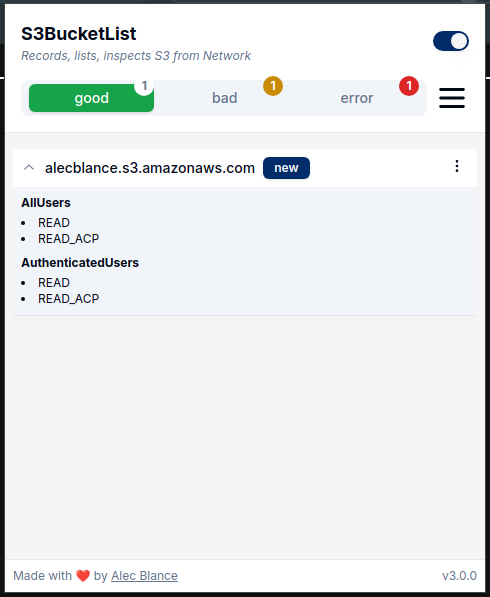
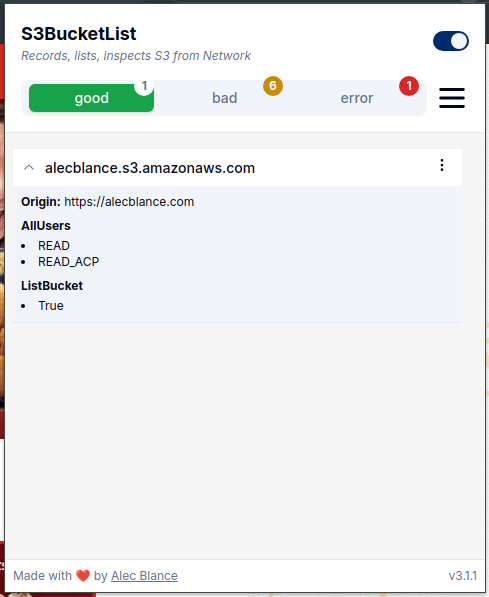
chore: :bookmark: bump version to v3.1.2

diff --git a/src/App.tsx b/src/App.tsx
@@ -92,7 +92,7 @@ function App() {
               Alec Blance
             </a>
           </p>
-          <p>v3.1.1</p>
+          <p>v3.1.2</p>
         </div>
       </div>
     </Tabs>

diff --git a/README.md b/README.md
@@ -1,4 +1,4 @@
-# S3BucketList v3.1.1
+# S3BucketList v3.1.2
 
 Search, lists, and checks S3 Buckets found in network requests while you are browsing.
 

diff --git a/.changeset/nasty-horses-compare.md b/.changeset/nasty-horses-compare.md
@@ -1,0 +1,5 @@
+---
+"s3bucketlist": patch
+---
+
+fixed improper categorization of buckets
